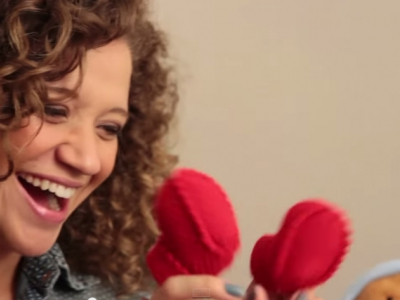
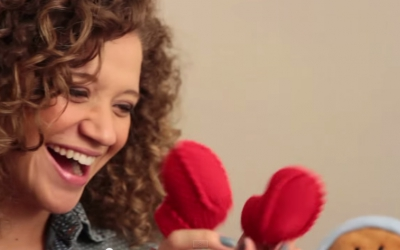
um monte de coisas

diff --git a/webroot/css/style.css b/webroot/css/style.css
@@ -31,7 +31,7 @@ a:hover{
 	background-position: top;
 }
 .home-main-overlay{
-	opacity: .4;
+	opacity: .3;
 	background-color: #000;
 	display: block;
 	position: absolute;
@@ -94,6 +94,7 @@ h3.player-video-title{
 
 h4.title-video{
 	font-size: 19px;
+	line-height: 25px;
 }
 h4.title-video a{
 	color: #333;

diff --git a/src/Model/Table/VideosTable.php b/src/Model/Table/VideosTable.php
@@ -53,7 +53,7 @@ class VideosTable extends Table
                     'square' => ['w' => 200, 'h' => 200, 'crop' => true],   // Define the size and prefix of your thumbnails
                     'portrait_md' => ['w' => 300, 'h' => 150, 'crop' => true],     // Crop will crop the image as well as resize it
                     'portrait_lg' => ['w' => 600, 'h' => 300],
-                    'box_horizontal' => ['w' => 400, 'h' => 300, 'crop' => true],
+                    'box_horizontal' => ['w' => 400, 'h' => 250, 'crop' => true],
                 ],
                 'thumbnailMethod' => 'Imagick'  // Options are Imagick, Gd or Gmagick
             ]
